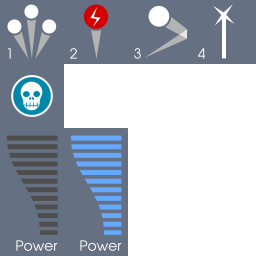
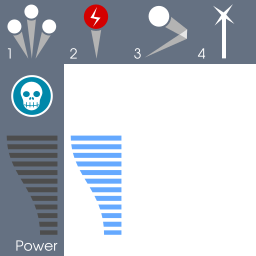
Show health, die, and respawn

Changed region(s): [[0.25, 0.5, 0.5, 1.0]]

diff --git a/main.py b/main.py
@@ -163,6 +163,14 @@ class RobotSprite:
         self.position = position
 
     @property
+    def visible(self):
+        return self.sprite.visible
+
+    @visible.setter
+    def visible(self, v):
+        self.sprite.visible = v
+
+    @property
     def position(self):
         return self.sprite.position
 
@@ -1482,6 +1490,7 @@ for i in range(16):
 
 
 class Player:
+    MAX_HP = 400
 
     def __init__(self):
         self.cooldown_range = (10, 12)
@@ -1524,7 +1533,7 @@ class Player:
         self.cooldown = 0
         self.weapon_index = 0
 
-        self.health = 1000
+        self.health = self.MAX_HP
 
         self.sprite = PlayerRobotSprite(level.map_to_world(self.position))
 
@@ -1671,16 +1680,30 @@ class Player:
         #     raystart + ray * 300
         # )
 
-    def on_draw(self):
-        self.sprite.draw()
-
     def on_damage(self, damage):
         self.health -= damage
+        hud.set_health(max(self.health / self.MAX_HP, 0))
         if self.health <= 0:
             self.on_died()
 
+    def respawn(self):
+        self.alive = True
+        self.health = self.MAX_HP
+        hud.set_health(1.0)
+        self.body.position = level.start_pos
+        self.on_player_moved()
+        self.sprite.visible = True
+        reticle.sprite.visible = True
+        level.space.add(self.body, self.shape)
+
+    alive = True
+
     def on_died(self):
-        game.paused = True
+        self.alive = False
+        self.sprite.visible = False
+        reticle.sprite.visible = False
+        level.space.remove(self.body, self.shape)
+        pyglet.clock.schedule_once(lambda dt: self.respawn(), 1.5)
 
 
 class Reticle:
@@ -1698,6 +1721,8 @@ class Reticle:
         self.offset = Vec2d(0, self.magnitude)
 
     def on_mouse_motion(self, x, y, dx, dy):
+        if not player.alive:
+            return
         if dx:
             self.theta += dx * self.mouse_multiplier
             viewport.angle = self.theta - math.pi / 2

diff --git a/hud.py b/hud.py
@@ -36,11 +36,22 @@ class HUD:
                 sprite.visible = False
             y += img.height + self.SPACING
 
-        self.bars = pyglet.image.ImageGrid(
+        self.bars = tuple(pyglet.image.ImageGrid(
             image=image,
             rows=2,
             columns=4,
-        ).get_texture_sequence()
+        ).get_texture_sequence())[:2]
+
+        self.power = tuple(
+            pyglet.sprite.Sprite(
+                bar,
+                self.viewport.w - self.SPACING - bar.width,
+                self.SPACING,
+                batch=self.batch,
+            )
+            for bar in self.bars
+        )
+        self.power[0].opacity = 64
 
     def set_weapon_visible(self, n, visible):
         self.weapons[n].visible = visible
@@ -62,6 +73,15 @@ class HUD:
             self.weapons[i].color = color
 
         self.weapons[4].visible = enabled
+
+    def set_health(self, health):
+        assert 0 <= health <= 1.0
+        img = self.bars[1]
+        sprite = self.power[1]
+
+        top = 20 + health * 100
+        region = img.get_region(0, 0, img.width, top)
+        sprite.image = region
 
     def draw(self):
         self.batch.draw()

diff --git a/particles.py b/particles.py
@@ -54,7 +54,7 @@ class Trail:
         level = self.level
         dir = self.player.body.velocity
         l = dir.length
-        self.emitter.rate = l * 2
+        self.emitter.rate = l * 2 if self.player.health > 0 else 0
 
         if l:
             back = self.player.position - dir.normalized() * 0.1
